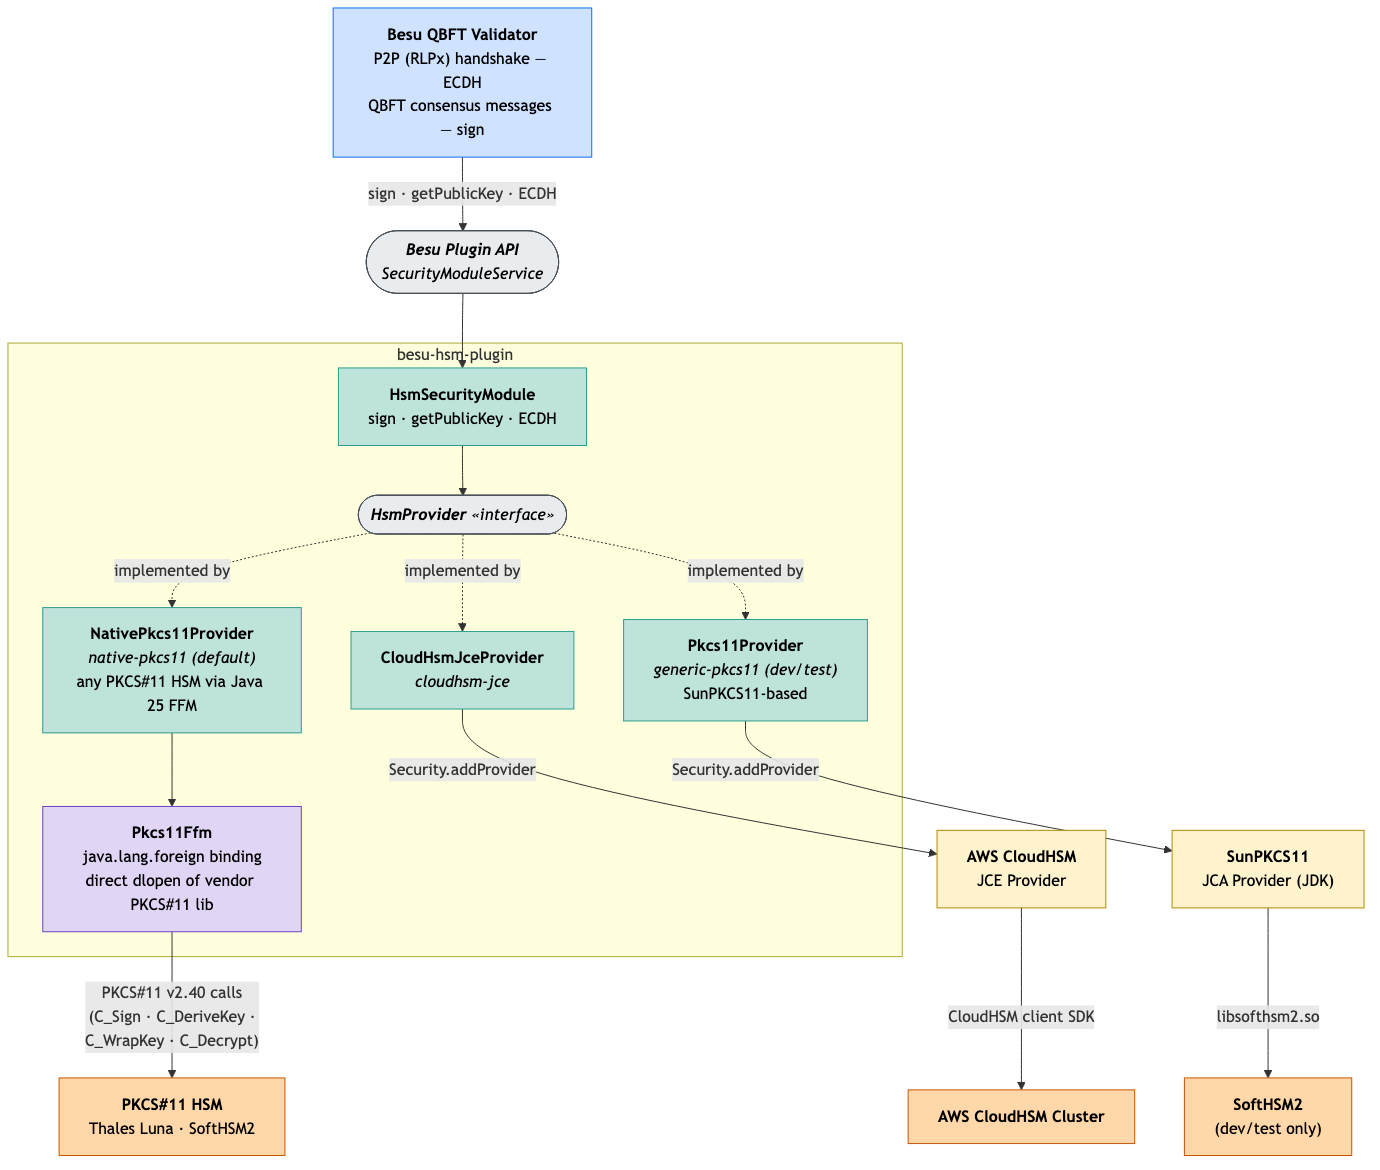
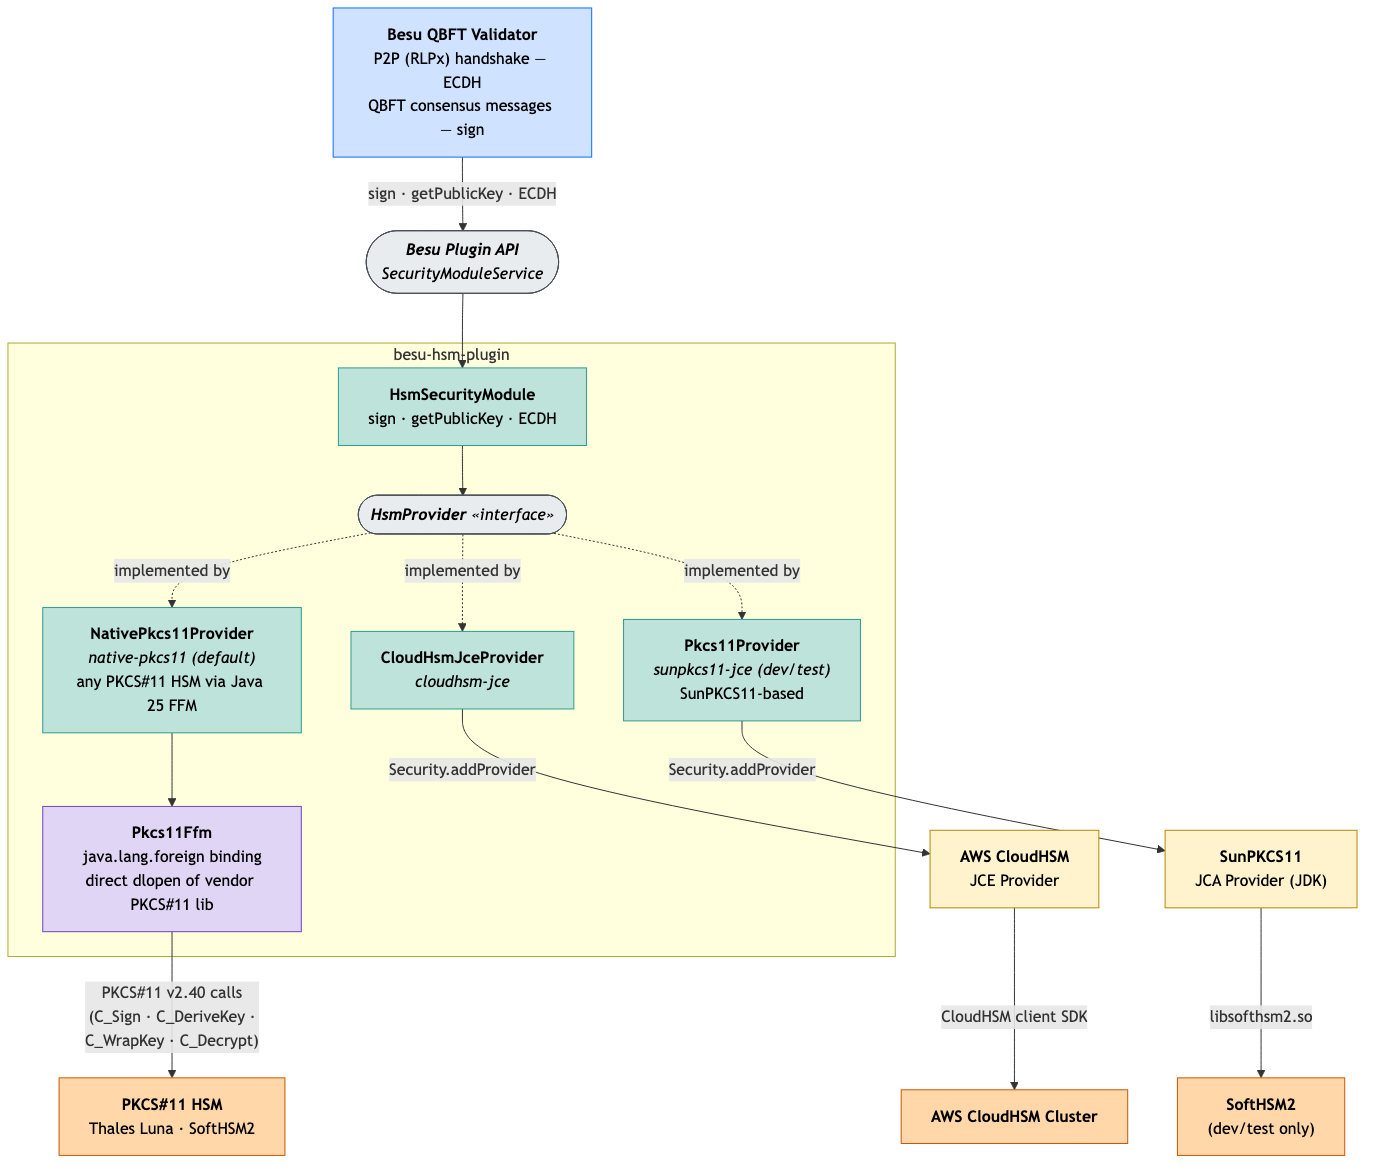
refactor: rename generic-pkcs11 provider to sunpkcs11-jce
Renames the `generic-pkcs11` CLI option value to `sunpkcs11-jce` to
accurately reflect that this mode uses Java's SunPKCS11 JCE provider,
consistent with the existing `cloudhsm-jce` naming convention.

Closes #24

diff --git a/src/test/java/org/hyperledger/besu/plugin/services/securitymodule/hsm/HsmSecurityModuleTest.java b/src/test/java/org/hyperledger/besu/plugin/services/securitymodule/hsm/HsmSecurityModuleTest.java
@@ -31,11 +31,11 @@ class HsmSecurityModuleTest {
     return options;
   }
 
-  // -- generic PKCS#11 validation tests --
+  // -- sunpkcs11-jce validation tests --
 
   @Test
-  void genericPkcs11RejectsNullConfigPath() {
-    final HsmCliOptions options = mockOptions(HsmCliOptions.HsmProviderType.GENERIC_PKCS11);
+  void sunPkcs11JceRejectsNullConfigPath() {
+    final HsmCliOptions options = mockOptions(HsmCliOptions.HsmProviderType.SUNPKCS11_JCE);
     when(options.getPkcs11ConfigPath()).thenReturn(null);
 
     assertThatThrownBy(() -> new HsmSecurityModule(options))
@@ -44,8 +44,8 @@ class HsmSecurityModuleTest {
   }
 
   @Test
-  void genericPkcs11RejectsNullPasswordPath() {
-    final HsmCliOptions options = mockOptions(HsmCliOptions.HsmProviderType.GENERIC_PKCS11);
+  void sunPkcs11JceRejectsNullPasswordPath() {
+    final HsmCliOptions options = mockOptions(HsmCliOptions.HsmProviderType.SUNPKCS11_JCE);
     when(options.getPkcs11ConfigPath()).thenReturn(Path.of("/tmp/config"));
     when(options.getPkcs11PasswordPath()).thenReturn(null);
 
@@ -55,8 +55,8 @@ class HsmSecurityModuleTest {
   }
 
   @Test
-  void genericPkcs11RejectsNullKeyAlias() {
-    final HsmCliOptions options = mockOptions(HsmCliOptions.HsmProviderType.GENERIC_PKCS11);
+  void sunPkcs11JceRejectsNullKeyAlias() {
+    final HsmCliOptions options = mockOptions(HsmCliOptions.HsmProviderType.SUNPKCS11_JCE);
     when(options.getPkcs11ConfigPath()).thenReturn(Path.of("/tmp/config"));
     when(options.getPkcs11PasswordPath()).thenReturn(Path.of("/tmp/password"));
     when(options.getPrivateKeyAlias()).thenReturn(null);

diff --git a/src/integrationTest/java/org/hyperledger/besu/plugin/services/securitymodule/hsm/QbftNetworkExtension.java b/src/integrationTest/java/org/hyperledger/besu/plugin/services/securitymodule/hsm/QbftNetworkExtension.java
@@ -88,11 +88,11 @@ class QbftNetworkExtension implements BeforeAllCallback, AfterAllCallback {
   private List<GenericContainer<?>> besuContainers;
 
   QbftNetworkExtension(final String ecCurve) {
-    this(ecCurve, false, "generic-pkcs11");
+    this(ecCurve, false, "sunpkcs11-jce");
   }
 
   QbftNetworkExtension(final String ecCurve, final boolean v5Discovery) {
-    this(ecCurve, v5Discovery, "generic-pkcs11");
+    this(ecCurve, v5Discovery, "sunpkcs11-jce");
   }
 
   QbftNetworkExtension(final String ecCurve, final boolean v5Discovery, final String providerType) {

diff --git a/src/main/java/org/hyperledger/besu/plugin/services/securitymodule/hsm/NativePkcs11Provider.java b/src/main/java/org/hyperledger/besu/plugin/services/securitymodule/hsm/NativePkcs11Provider.java
@@ -44,10 +44,10 @@ import org.slf4j.LoggerFactory;
  * CKM_ECDH1_DERIVE}).
  *
  * <p>This provider uses the same {@code --plugin-hsm-config-path}, {@code -password-path}, {@code
- * -key-alias} CLI options as the {@code generic-pkcs11} provider; the config file is parsed for
+ * -key-alias} CLI options as the {@code sunpkcs11-jce} provider; the config file is parsed for
  * {@code library = <path>} and either {@code slot = <int>} or {@code slotListIndex = <int>} (other
  * SunPKCS11 directives are ignored). The same config file therefore typically works unchanged for
- * both providers. Unlike the generic-pkcs11 path, this provider does NOT require a self-signed cert
+ * both providers. Unlike the sunpkcs11-jce path, this provider does NOT require a self-signed cert
  * to be associated with the private-key alias on the HSM — keys are looked up directly by {@code
  * CKA_LABEL}.
  *

diff --git a/src/main/java/org/hyperledger/besu/plugin/services/securitymodule/hsm/HsmCliOptions.java b/src/main/java/org/hyperledger/besu/plugin/services/securitymodule/hsm/HsmCliOptions.java
@@ -71,7 +71,7 @@ public class HsmCliOptions {
 
   enum HsmProviderType {
     NATIVE_PKCS11("native-pkcs11"),
-    GENERIC_PKCS11("generic-pkcs11"),
+    SUNPKCS11_JCE("sunpkcs11-jce"),
     CLOUDHSM_JCE("cloudhsm-jce");
 
     private final String typeName;

diff --git a/src/main/java/org/hyperledger/besu/plugin/services/securitymodule/hsm/HsmSecurityModule.java b/src/main/java/org/hyperledger/besu/plugin/services/securitymodule/hsm/HsmSecurityModule.java
@@ -54,7 +54,7 @@ public class HsmSecurityModule implements SecurityModule, AutoCloseable {
   private static HsmProvider createHsmProvider(
       final HsmCliOptions cliOptions, final EcCurveParameters curveParams) {
     return switch (cliOptions.getProviderType()) {
-      case GENERIC_PKCS11 -> Pkcs11Provider.create(cliOptions, curveParams);
+      case SUNPKCS11_JCE -> Pkcs11Provider.create(cliOptions, curveParams);
       case CLOUDHSM_JCE -> CloudHsmJceProvider.create(cliOptions, curveParams);
       case NATIVE_PKCS11 -> NativePkcs11Provider.create(cliOptions, curveParams);
     };

diff --git a/README.md b/README.md
@@ -9,7 +9,7 @@ private keys secure in dedicated hardware rather than in software.
 
 Three provider modes are supported. The default is `native-pkcs11`, which works with any
 [PKCS#11](https://en.wikipedia.org/wiki/PKCS_11) HSM and is recommended for production.
-`cloudhsm-jce` is the production path for AWS CloudHSM, and `generic-pkcs11` is a dev/test
+`cloudhsm-jce` is the production path for AWS CloudHSM, and `sunpkcs11-jce` is a dev/test
 option targeting SoftHSM2.
 
 ## Providers
@@ -24,7 +24,7 @@ Pick the provider that matches your HSM. The CLI flag values listed below are wh
 - **`cloudhsm-jce`** *(production, AWS CloudHSM only)* — Uses the [AWS CloudHSM JCE provider](https://docs.aws.amazon.com/cloudhsm/latest/userguide/java-library-install.html)
   directly, with no PKCS#11 configuration file. Authenticates via the `HSM_USER` and `HSM_PASSWORD`
   environment variables.
-- **`generic-pkcs11`** *(dev/test only)* — Targets **SoftHSM2** for local development and
+- **`sunpkcs11-jce`** *(dev/test only)* — Targets **SoftHSM2** for local development and
   integration tests. ECDH compatibility with production HSMs is **not** guaranteed; most strict
   v2.40 HSMs reject the required peer-point format. Requires `CKA_SENSITIVE=false` on derived
   secrets and a self-signed certificate associated with the private key on the token.
@@ -45,7 +45,7 @@ generation steps, are in:
 
 - **Thales Luna** (PCIe / network HSM, `native-pkcs11`) — [`docs/thales-luna/README.md`](docs/thales-luna/README.md)
 - **AWS CloudHSM** (`cloudhsm-jce`) — [`docs/aws-CloudHSM/`](docs/aws-CloudHSM/)
-- **SoftHSM2** (local dev/test, `generic-pkcs11`) — [`docker/softhsm2/`](docker/softhsm2/)
+- **SoftHSM2** (local dev/test, `sunpkcs11-jce`) — [`docker/softhsm2/`](docker/softhsm2/)
 
 ## Plugin CLI Options
 
@@ -53,9 +53,9 @@ The plugin registers the following CLI options with Besu:
 
 | Option | Description | Required |
 |--------|-------------|----------|
-| `--plugin-hsm-provider-type` | Provider type: `native-pkcs11` (default), `cloudhsm-jce`, or `generic-pkcs11` | No |
-| `--plugin-hsm-config-path` | Path to the PKCS#11 configuration file | `native-pkcs11` and `generic-pkcs11` |
-| `--plugin-hsm-password-path` | Path to the file containing the token PIN/password | `native-pkcs11` and `generic-pkcs11` |
+| `--plugin-hsm-provider-type` | Provider type: `native-pkcs11` (default), `cloudhsm-jce`, or `sunpkcs11-jce` | No |
+| `--plugin-hsm-config-path` | Path to the PKCS#11 configuration file | `native-pkcs11` and `sunpkcs11-jce` |
+| `--plugin-hsm-password-path` | Path to the file containing the token PIN/password | `native-pkcs11` and `sunpkcs11-jce` |
 | `--plugin-hsm-key-alias` | Alias/label of the private key on the HSM | Yes |
 | `--plugin-hsm-public-key-alias` | Alias/label of the public key on the HSM | `cloudhsm-jce` only |
 | `--plugin-hsm-cloudhsm-jar-path` | Path to CloudHSM JCE jar file or directory (default: `/opt/cloudhsm/java`) | No |
@@ -101,11 +101,11 @@ besu --security-module=hsm \
 
 See the [AWS CloudHSM guides](docs/aws-CloudHSM/) for cluster setup and a full QBFT walkthrough.
 
-### `generic-pkcs11` example *(dev/test)*
+### `sunpkcs11-jce` example *(dev/test)*
 
 ```shell
 besu --security-module=hsm \
-  --plugin-hsm-provider-type=generic-pkcs11 \
+  --plugin-hsm-provider-type=sunpkcs11-jce \
   --plugin-hsm-config-path=/etc/besu/pkcs11.cfg \
   --plugin-hsm-password-path=/etc/besu/hsm-pin.txt \
   --plugin-hsm-key-alias=mykey

diff --git a/docs/native-pkcs11-design.md b/docs/native-pkcs11-design.md
@@ -8,7 +8,7 @@ covers the *why* behind the implementation choices.
 
 ## 1. Why FFM (and not SunPKCS11)
 
-`generic-pkcs11` drives PKCS#11 HSMs through SunPKCS11. That works
+`sunpkcs11-jce` drives PKCS#11 HSMs through SunPKCS11. That works
 for permissive HSMs (SoftHSM2, YubiHSM2) but breaks against strict
 v2.40 implementations such as Thales Luna 7.0.3, on two fronts:
 
@@ -325,8 +325,6 @@ on CloudHSM. Use `cloudhsm-jce` for that HSM.
 - **Transparent session re-login** on `CKR_SESSION_HANDLE_INVALID`,
   `CKR_DEVICE_ERROR`, and `CKR_USER_NOT_LOGGED_IN` for HA-group
   deployments where session loss is more likely to be transient.
-- **Provider rename.** `generic-pkcs11` → `sunpkcs11` (or similar)
-  to match the implementation. Separate PR.
 
 ## 11. References
 